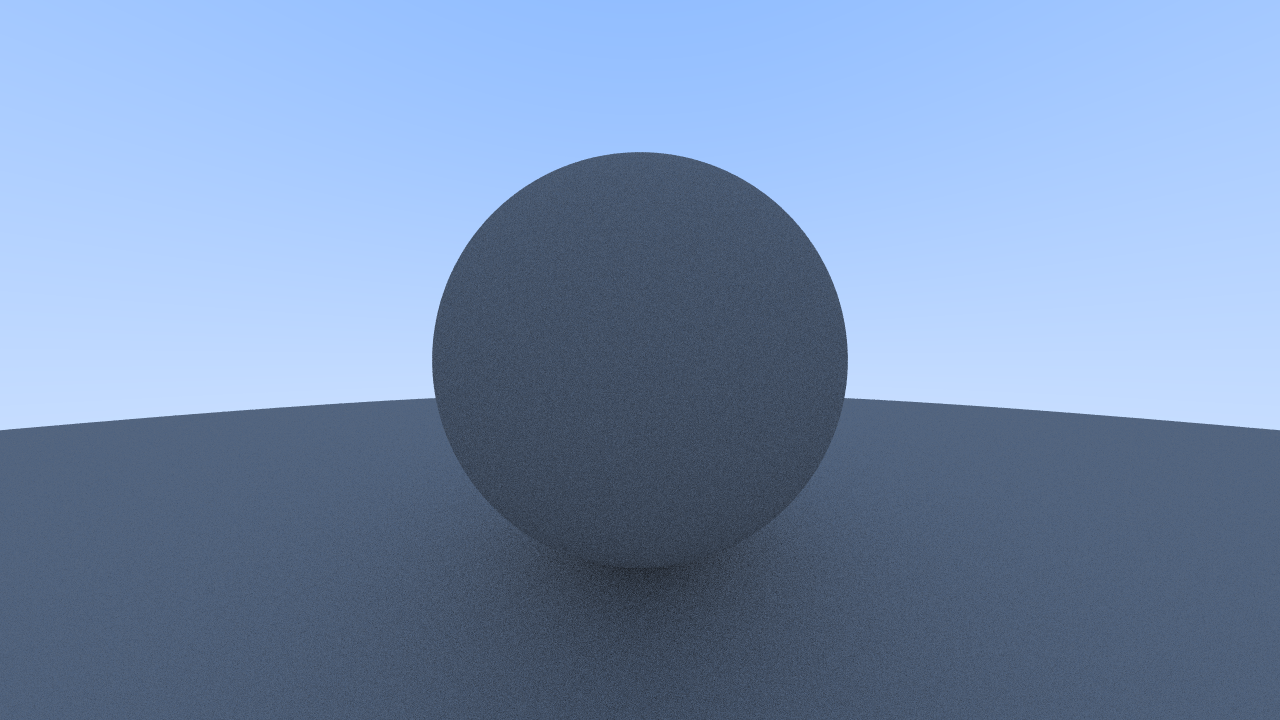
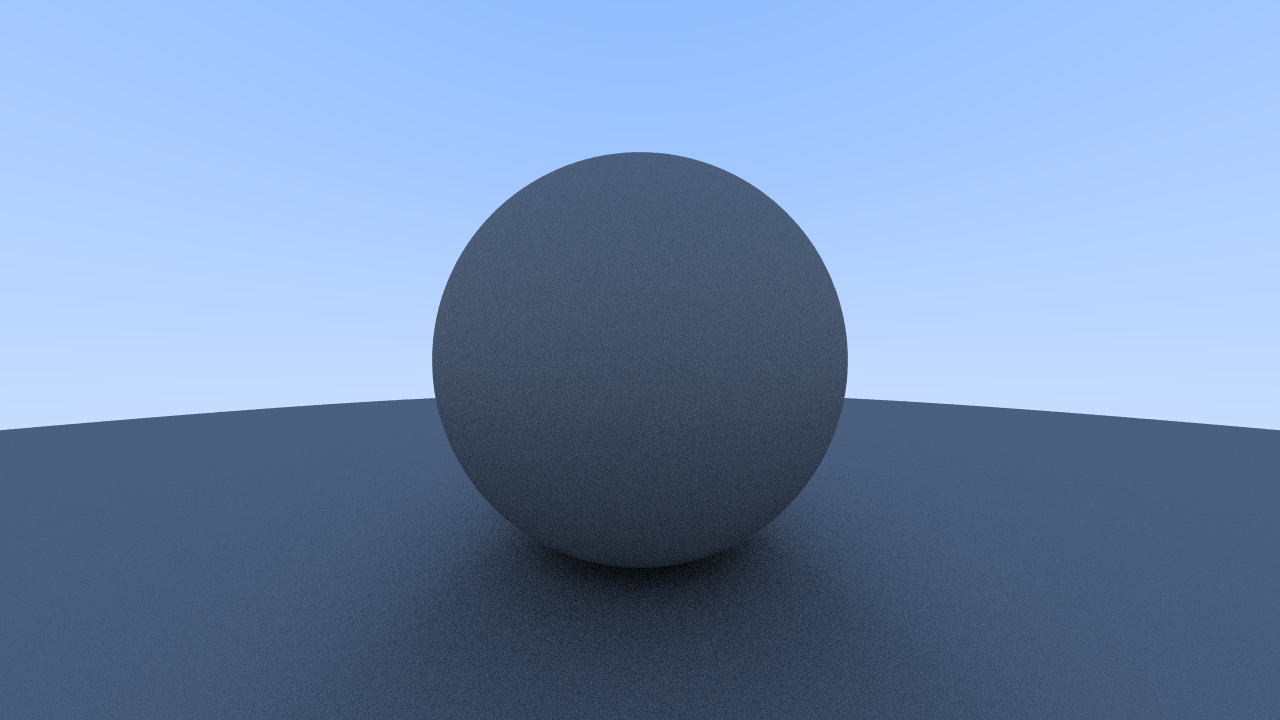
True Lambertian Reflection

Changed region(s): [[0.3125, 0.6111, 0.6875, 1.0]]

diff --git a/src/v.rs b/src/v.rs
@@ -114,20 +114,15 @@ impl V {
     pub fn unit(&self) -> V {
         *self / self.norm()
     }
-    pub fn random_on_hemisphere(n: V) -> V {
+    pub fn random_unit() -> V {
         let mut rng = thread_rng();
         let theta = rng.gen_range(0.0..=PI);
         let phi = rng.gen_range(0.0..2.0 * PI);
-        let v = V(
+        V(
             theta.sin() * phi.cos(),
             theta.sin() * phi.sin(),
             theta.cos(),
-        );
-        if v.dot(n) > 0.0 {
-            v
-        } else {
-            -v
-        }
+        )
     }
 }
 

diff --git a/src/r.rs b/src/r.rs
@@ -33,7 +33,7 @@ impl R {
             return 0.5
                 * R {
                     q: hit_record.p,
-                    d: V::random_on_hemisphere(hit_record.n),
+                    d: hit_record.n + V::random_unit(),
                 }
                 .color(objects, remaining_depth - 1);
         }
